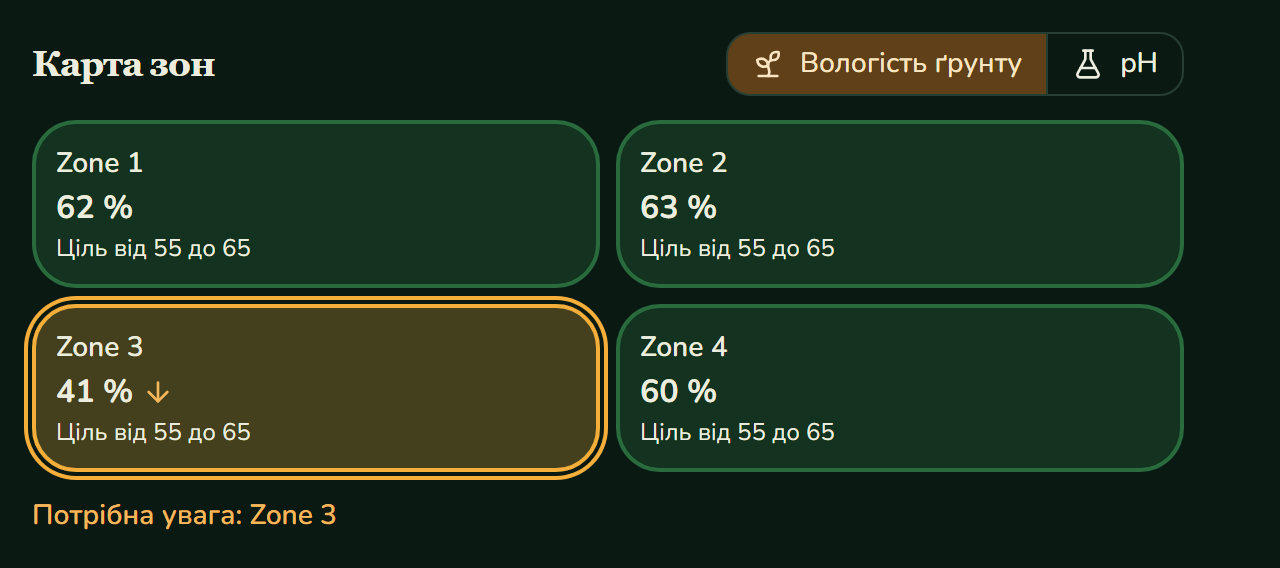
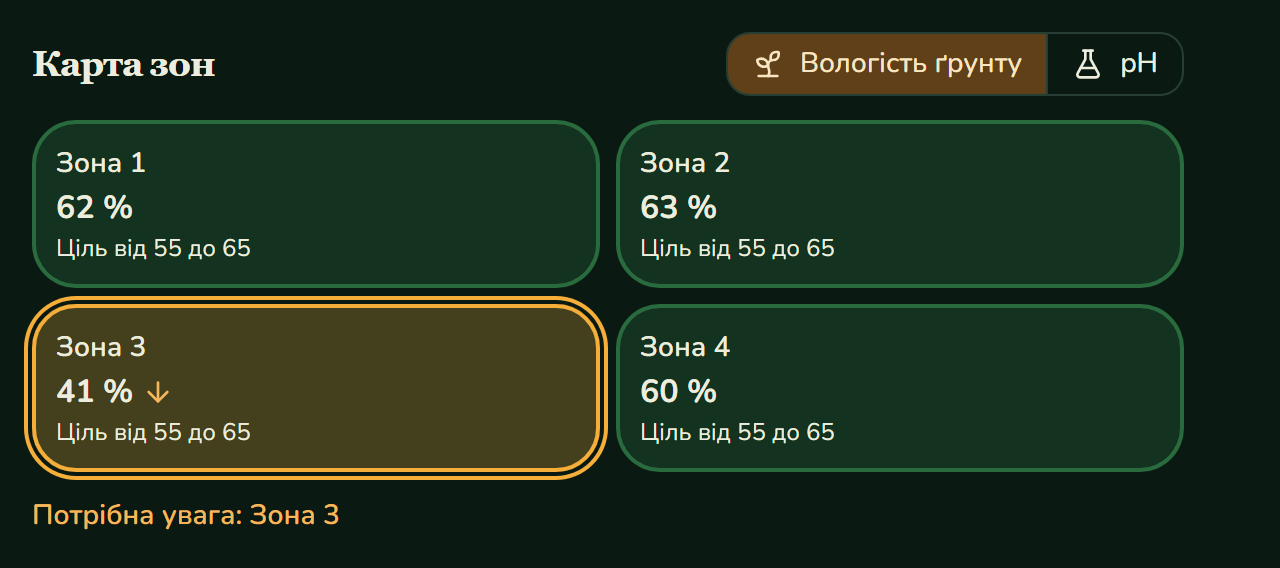
Let the client localize default zone names (#3)

diff --git a/packages/ui/src/components/greenhaus/pot-zone-map.tsx b/packages/ui/src/components/greenhaus/pot-zone-map.tsx
@@ -4,6 +4,7 @@ import { useTranslation } from 'react-i18next'
 import type { Metric, ReadingState, Schemas } from '@/api/client'
 import { ToggleGroup, ToggleGroupItem } from '@/components/ui/toggle-group'
 import { defaultUnit, formatValue, metricIcon, metrics } from '@/lib/metrics'
+import { zoneName } from '@/lib/zone'
 import { cn } from '@/lib/utils'
 
 export interface PotZoneMapProps {
@@ -30,6 +31,7 @@ export function PotZoneMap({ rows, cols, zones, status, requirements, initialMet
   const available = metrics.filter((m) => status.zones.some((z) => z.metrics.some((r) => r.metric === m)))
   const [metric, setMetric] = useState<Metric>(initialMetric ?? available[0] ?? 'soil_moisture')
   const worst = zones.find((z) => z.id === status.worstZoneId)
+  const nameOf = (zone: Schemas['Zone']) => zoneName(t, zone, { simple: false, cols })
 
   return (
     <section className={cn('space-y-3', className)} aria-label={t('zoneMap.title')}>
@@ -67,14 +69,14 @@ export function PotZoneMap({ rows, cols, zones, status, requirements, initialMet
           return (
             <li
               key={zone.id}
-              aria-label={t('zoneMap.cell', { zone: zone.label, metric: t(`metric.${metric}`), value: valueText, state: t(`status.${state}`) })}
+              aria-label={t('zoneMap.cell', { zone: nameOf(zone), metric: t(`metric.${metric}`), value: valueText, state: t(`status.${state}`) })}
               className={cn(
                 'flex min-h-20 flex-col justify-between rounded-xl border-2 p-2.5 text-sm',
                 cellLook[state],
                 zone.id === status.worstZoneId && 'ring-2 ring-attention ring-offset-2 ring-offset-background',
               )}
             >
-              <span className="font-semibold">{zone.label}</span>
+              <span className="font-semibold">{nameOf(zone)}</span>
               <span className="flex items-center gap-1 text-base font-bold tabular-nums">
                 {valueText}
                 {reading?.direction === 'above' && <ArrowUp className="size-4 text-attention-ink" aria-hidden />}
@@ -88,7 +90,7 @@ export function PotZoneMap({ rows, cols, zones, status, requirements, initialMet
         })}
       </ul>
 
-      {worst && <p className="text-sm font-semibold text-attention-ink">{t('zoneMap.worst', { zone: worst.label })}</p>}
+      {worst && <p className="text-sm font-semibold text-attention-ink">{t('zoneMap.worst', { zone: nameOf(worst) })}</p>}
     </section>
   )
 }

diff --git a/packages/ui/src/components/greenhaus/pot-card.tsx b/packages/ui/src/components/greenhaus/pot-card.tsx
@@ -3,6 +3,7 @@ import { useTranslation } from 'react-i18next'
 import type { Schemas } from '@/api/client'
 import { Badge } from '@/components/ui/badge'
 import { Card, CardContent, CardFooter, CardHeader, CardTitle } from '@/components/ui/card'
+import { zoneName } from '@/lib/zone'
 import { cn } from '@/lib/utils'
 import { RequirementBand } from './requirement-band'
 import { StatusChip } from './status-chip'
@@ -41,7 +42,7 @@ export function PotCard({ pot, status, requirements, zones, plantCount, classNam
           <StatusChip state={status.state} />
         </div>
         {pot.viewMode === 'zones' && shown && status.state === 'attention' && shownZone && (
-          <p className="text-sm font-semibold text-attention-ink">{t('pot.worstZone', { zone: shownZone.label })}</p>
+          <p className="text-sm font-semibold text-attention-ink">{t('pot.worstZone', { zone: zoneName(t, shownZone, { simple: false, cols: pot.gridCols ?? 1 }) })}</p>
         )}
       </CardHeader>
 

diff --git a/packages/ui/src/api/schema.d.ts b/packages/ui/src/api/schema.d.ts
@@ -692,7 +692,12 @@ export interface components {
             id: string;
             row: number;
             col: number;
-            label: string;
+            /**
+             * @description A name the user gave the zone. Absent until they do, and the client then shows a localized
+             *     default such as "Zone 3" (numbered by row and column) or "Whole pot" in the Simple view.
+             *     The API never returns a default label, so the language of the interface is the client's choice.
+             */
+            label?: string;
         };
         Plant: {
             /** Format: uuid */

diff --git a/packages/ui/src/lib/zone.ts b/packages/ui/src/lib/zone.ts
@@ -1,0 +1,11 @@
+import type { TFunction } from 'i18next'
+import type { Schemas } from '@/api/client'
+
+/**
+ * The name to show for a zone. The API only returns a label the user chose, so the default is built here
+ * in the language of the interface: numbered by row and column in a grid, or "Whole pot" in the Simple view.
+ */
+export function zoneName(t: TFunction, zone: Schemas['Zone'], grid: { simple: boolean; cols: number }): string {
+  if (zone.label) return zone.label
+  return grid.simple ? t('zone.whole') : t('zone.default', { n: zone.row * grid.cols + zone.col + 1 })
+}

diff --git a/packages/ui/src/components/greenhaus/pot-card.stories.tsx b/packages/ui/src/components/greenhaus/pot-card.stories.tsx
@@ -88,4 +88,8 @@ export const FromMock: StoryObj<{ pot: Schemas['Pot'] }> = {
 export const UkrainianDark: Story = {
   globals: { locale: 'uk', theme: 'dark' },
   args: { pot: bedPot, status: bedStatus, zones: bedZones, plantCount: 5 },
+  play: async ({ canvasElement }) => {
+    // The API sends no zone label, so the default name is built in the language of the interface.
+    await expect(within(canvasElement).getByText(/Зона 3/)).toBeVisible()
+  },
 }

diff --git a/packages/ui/src/stories/args.ts b/packages/ui/src/stories/args.ts
@@ -8,7 +8,6 @@ export const zone = (n: number, row: number, col: number): Schemas['Zone'] => ({
   id: `00000000-0000-4000-8000-00000000000${n}`,
   row,
   col,
-  label: `Zone ${n}`,
 })
 
 export const bedZones: Schemas['Zone'][] = [zone(1, 0, 0), zone(2, 0, 1), zone(3, 1, 0), zone(4, 1, 1)]

diff --git a/mock-server/Greenhaus.MockServer/MockStore.cs b/mock-server/Greenhaus.MockServer/MockStore.cs
@@ -202,7 +202,7 @@ public class MockStore
                     {
                         Id = $"{channel.Id}-{direction}", Metric = channel.Metric, ZoneId = zone.Id,
                         Since = now.AddMinutes(-12),
-                        Message = $"{zone.Label}: {Key(channel.Metric)} is {direction} the target range",
+                        Message = $"{zone.Label ?? $"Zone {zone.Row * (pot.Pot.GridCols ?? 1) + zone.Col + 1}"}: {Key(channel.Metric)} is {direction} the target range",
                     });
                 }
             }
@@ -228,13 +228,13 @@ public class MockStore
 
     public static List<Zone> BuildZones(int rows, int cols, bool simple)
     {
-        if (simple) return [new Zone { Id = Guid.NewGuid(), Row = 0, Col = 0, Label = "Whole pot" }];
+        if (simple) return [new Zone { Id = Guid.NewGuid(), Row = 0, Col = 0 }];
         var zones = new List<Zone>();
         for (var r = 0; r < rows; r++)
         {
             for (var c = 0; c < cols; c++)
             {
-                zones.Add(new Zone { Id = Guid.NewGuid(), Row = r, Col = c, Label = $"Zone {r * cols + c + 1}" });
+                zones.Add(new Zone { Id = Guid.NewGuid(), Row = r, Col = c });
             }
         }
         return zones;

diff --git a/mock-server/Greenhaus.MockServer.Tests/ContractTests.cs b/mock-server/Greenhaus.MockServer.Tests/ContractTests.cs
@@ -305,4 +305,17 @@ public class ContractTests
         var undocumented = new HttpResponseMessage(HttpStatusCode.Gone);
         await Assert.ThrowsAsync<Xunit.Sdk.XunitException>(() => api.Contract.Verify(undocumented, "GET", "/pots/{potId}"));
     }
+
+    [Fact]
+    public async Task Zones_have_no_label_until_the_user_names_them()
+    {
+        using var api = new Api();
+        var bed = Api.Id(await api.PotNamed("Balcony bed"));
+        var zones = await api.Node(await api.Call("GET", "/pots/{potId}/zones", new { potId = bed }));
+        Assert.All(zones.AsArray(), zone => Assert.Null(zone!["label"]));
+
+        var id = zones[0]!["id"]!.GetValue<string>();
+        var renamed = await api.Node(await api.Call("PATCH", "/pots/{potId}/zones/{zoneId}", new { potId = bed, zoneId = id }, new { label = "Tomatoes" }));
+        Assert.Equal("Tomatoes", renamed["label"]!.GetValue<string>());
+    }
 }

diff --git a/mock-server/Greenhaus.MockServer/Models.cs b/mock-server/Greenhaus.MockServer/Models.cs
@@ -146,7 +146,7 @@ public class Zone
     public Guid Id { get; set; }
     public int Row { get; set; }
     public int Col { get; set; }
-    public required string Label { get; set; }
+    public string? Label { get; set; }
 }
 
 public class LabelUpdate

diff --git a/packages/ui/README.md b/packages/ui/README.md
@@ -1,4 +1,4 @@
-# Greenhaus design system
+# Greenhaus design system
 
 shadcn/ui components, Greenhaus components built on them, and a Storybook to develop, document and test everything. Free and open-source tools only, and nothing is published: Storybook runs locally.
 
@@ -50,10 +50,10 @@ Base components in `src/components/ui/` come from shadcn and are owned by this r
 - **State is not colour alone.** Every status has an icon and a word, and each metric has its own icon.
 - **Data comes from the contract.** Types are generated from the OpenAPI document. Stories named "From mock" load real data from the mock backend, so component shapes cannot drift from the API. The typed builders in `src/stories/args.ts` only describe component states (a dry zone, a locked tier), they are not API mocks.
 - **Accessibility is a test.** The a11y addon runs in `error` mode, so a contrast or labelling violation fails `npm test`. Every component also has a dark Ukrainian story, so contrast and longer words are checked in both themes. The first run found real problems (slider without a name, low contrast for attention text and tier badges, a meter without a value), all fixed.
+- **Zone names are built in the client.** The API returns a label only when the user chose one, so the default ("Zone 3", "Whole pot") is localized by the interface (src/lib/zone.ts).
 - **Translations are data.** Strings live in `src/i18n/locales/en.json` and `uk.json`, with Ukrainian plural forms.
 
 ## Known gaps
 
-- Default zone labels ("Zone 3") come from the API in English. They should be localized on the client, so the contract should allow a missing label. To be raised as a small contract PR.
 - Currency is passed in as data. A billing contract field for the display currency is not defined yet.
 - No visual regression run in CI yet. Screenshots are generated, not compared.
